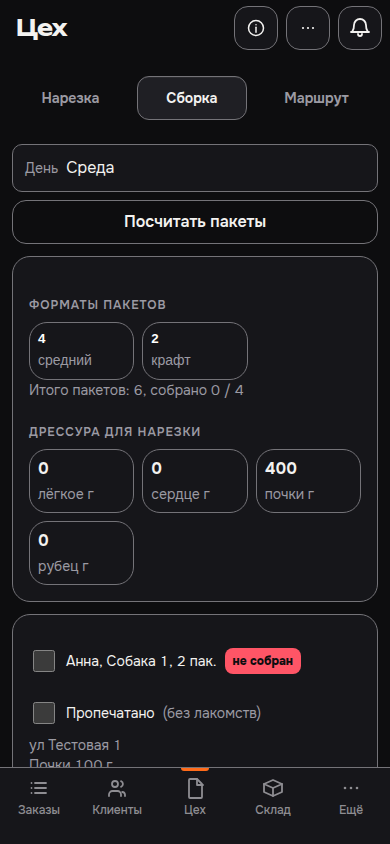
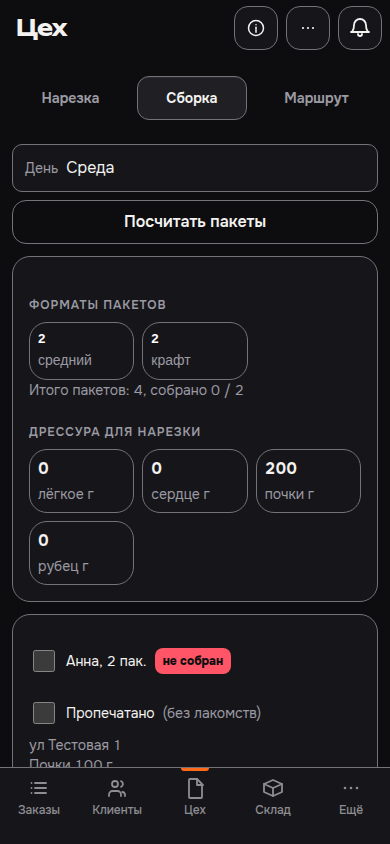
fix(next): крафт на карточке той же собаки, что в итоге
Сборка сверяет строку пакетов по хозяину и dogPart, чтобы крафт с итога попадал в карточку после схлопывания записей.

diff --git a/boinya-c/next/production.js b/boinya-c/next/production.js
@@ -610,9 +610,17 @@
       });
     }
     var tallyRows = tallied ? tallied.rows : [];
+    function rowKeyOf(c) {
+      if (!packsApi || !c) return "";
+      return packsApi.ownerKey(c) + "#" + String(Number(c.dogPart) || 0) + "#" + String(c.name || "").toUpperCase();
+    }
     function rowOf(c) {
       var i;
-      for (i = 0; i < tallyRows.length; i++) if (tallyRows[i].client === c) return tallyRows[i];
+      var want = rowKeyOf(c);
+      for (i = 0; i < tallyRows.length; i++) {
+        if (tallyRows[i].client === c) return tallyRows[i];
+        if (want && rowKeyOf(tallyRows[i].client) === want) return tallyRows[i];
+      }
       return null;
     }
     var organs = { light: organEmpty(), heart: organEmpty(), kidney: organEmpty(), rumen: organEmpty() };
